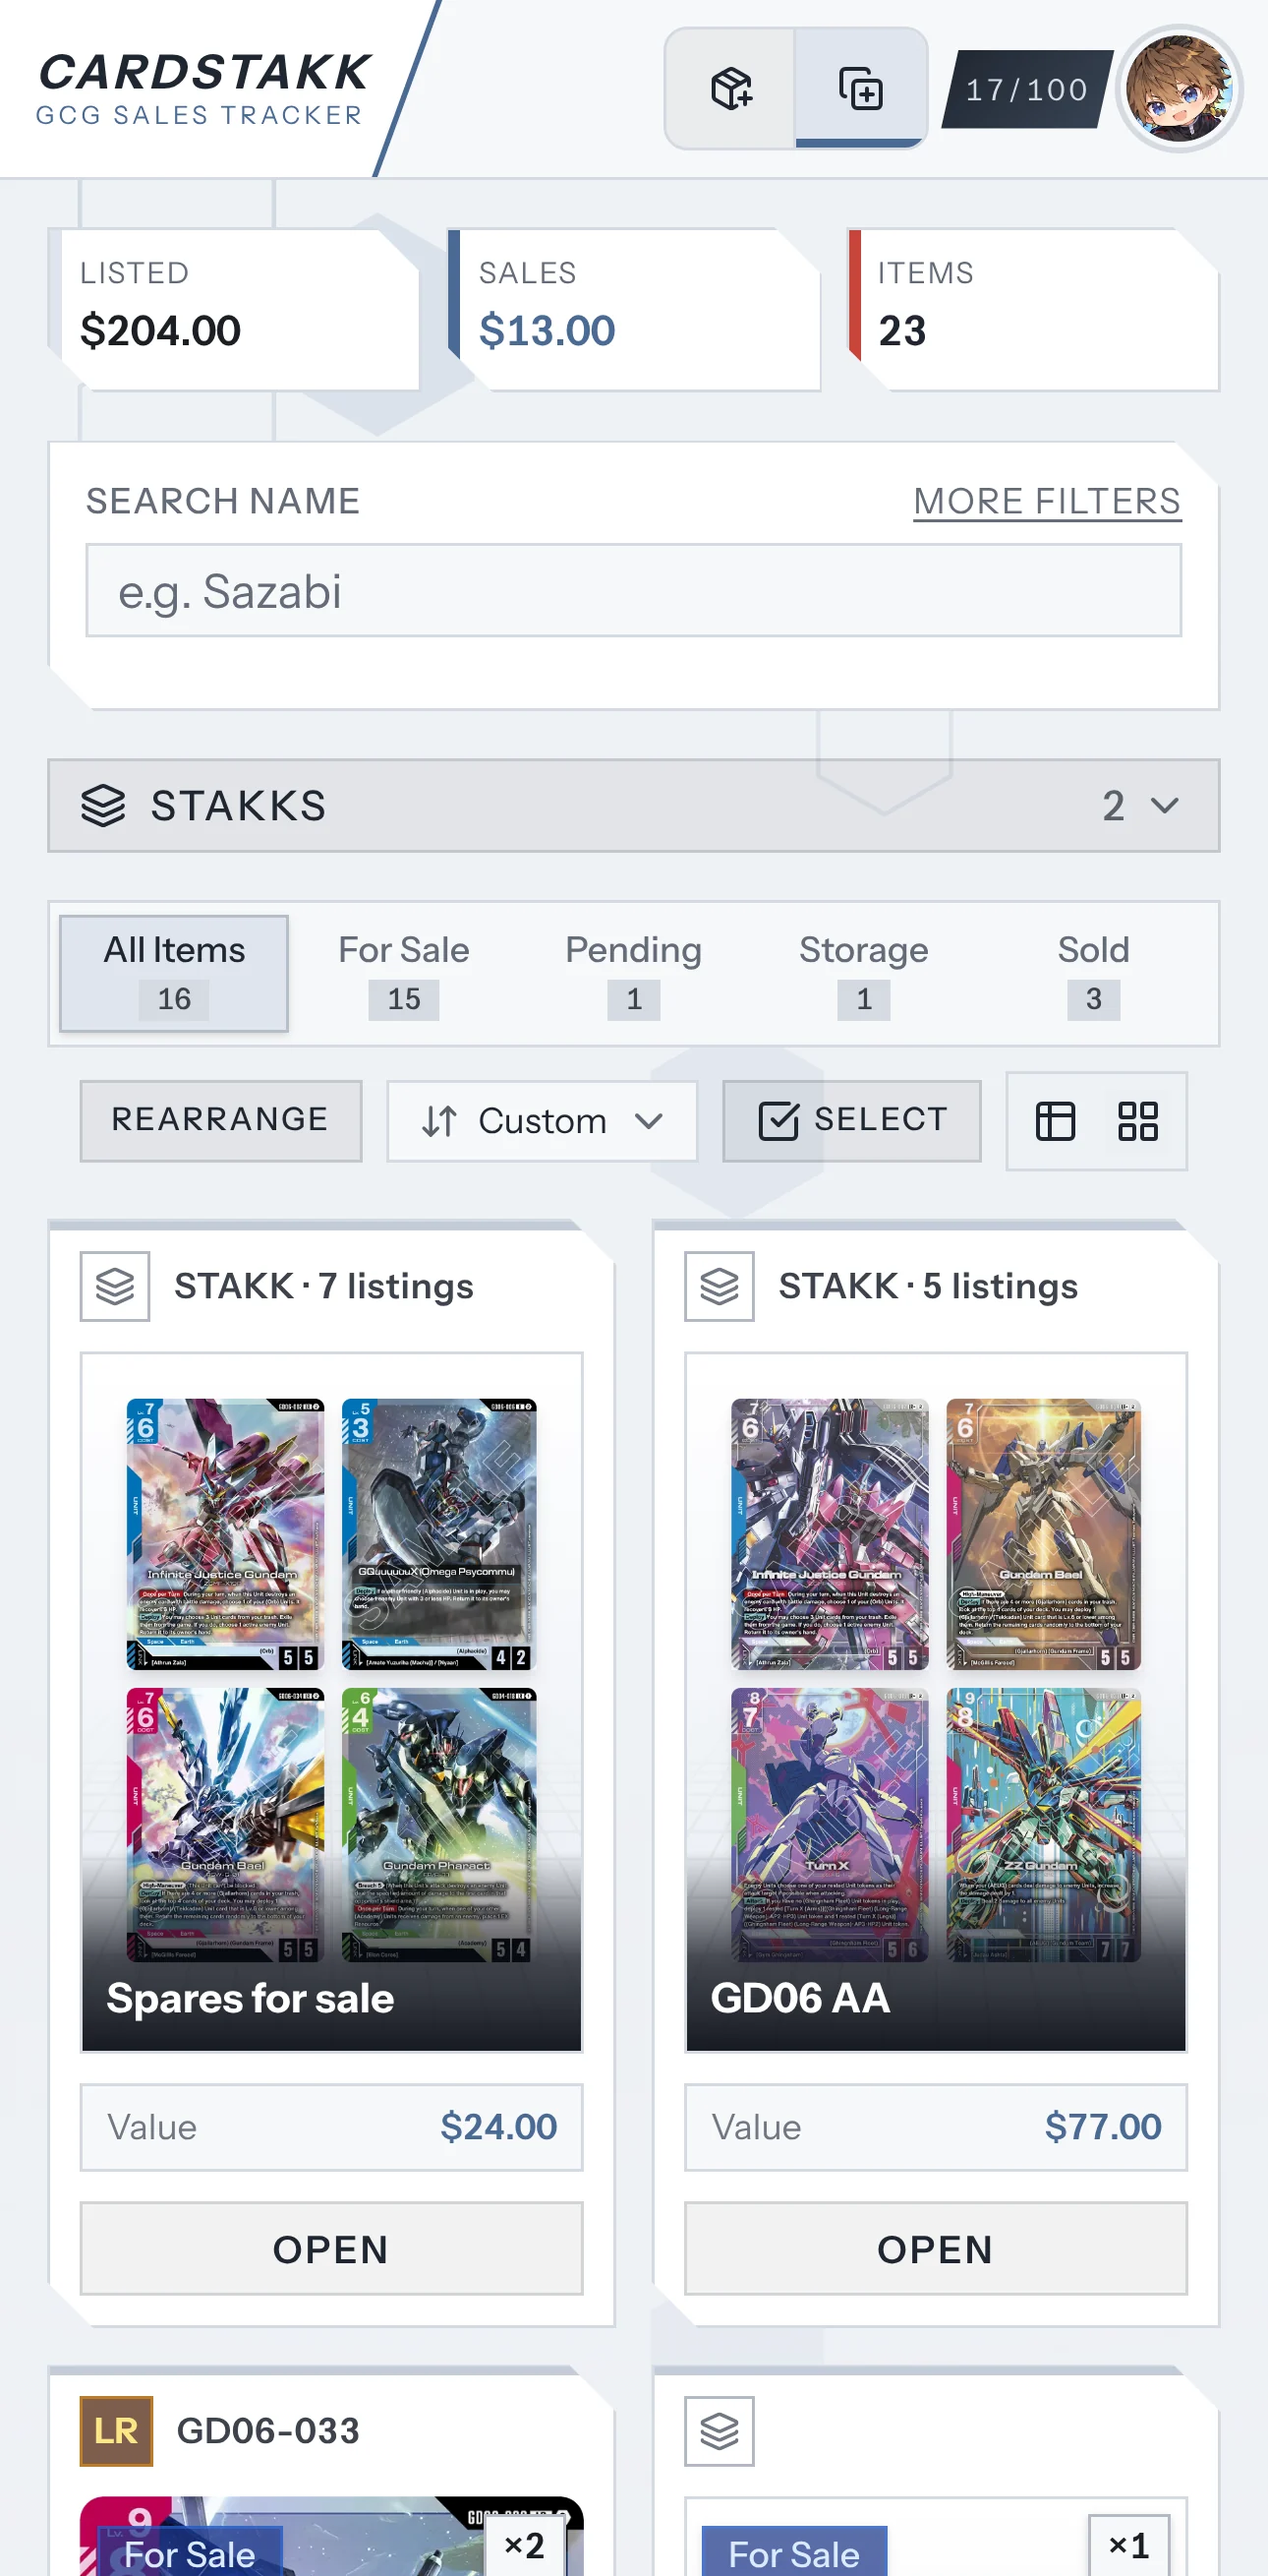
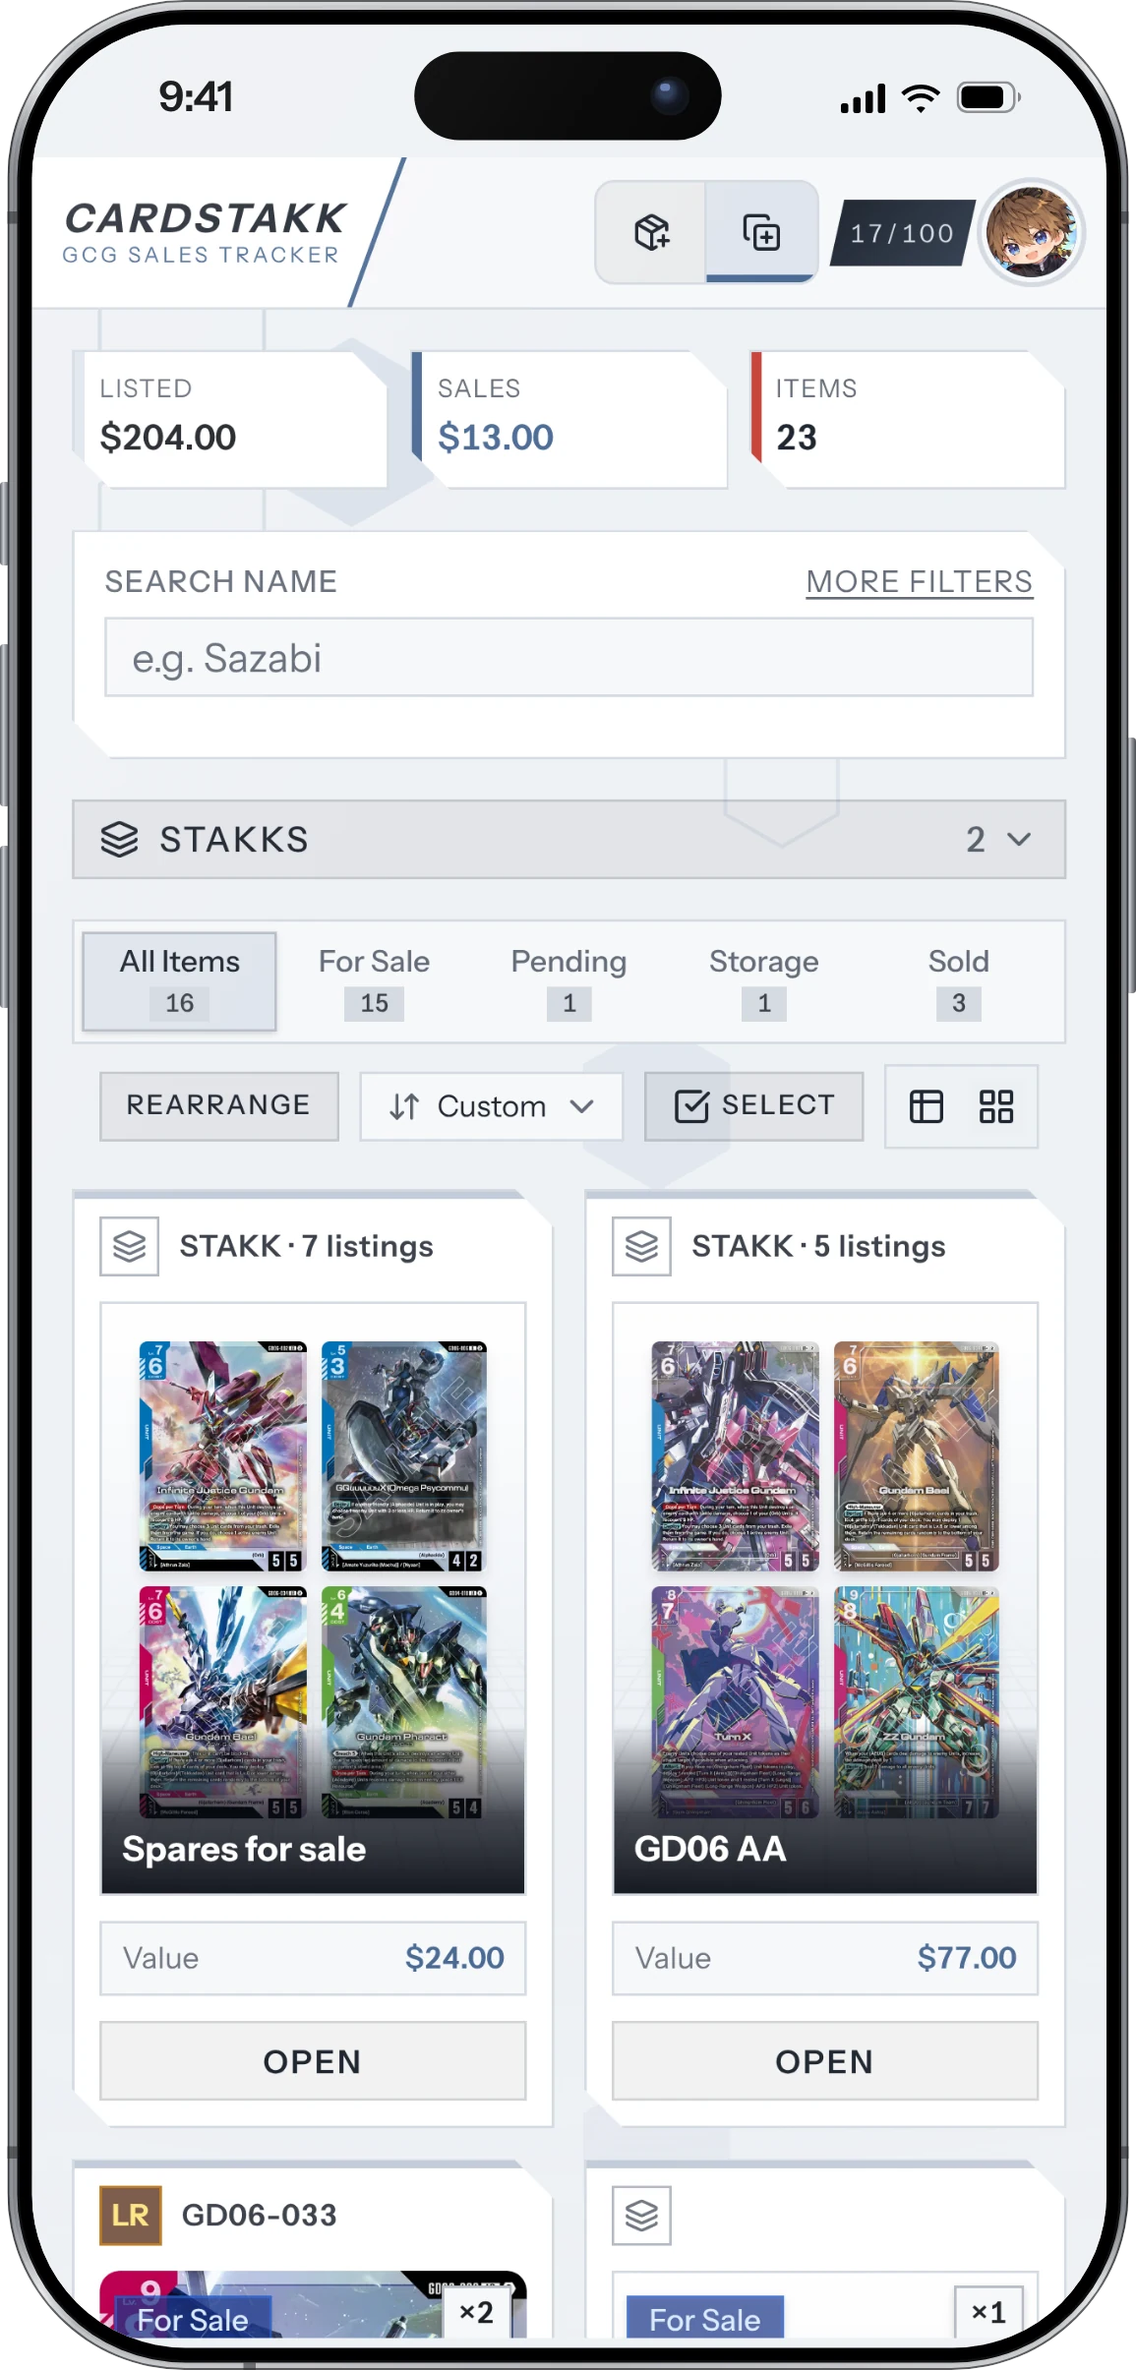
Landing page: realistic phone

diff --git a/frontend/src/pages/Landing.tsx b/frontend/src/pages/Landing.tsx
@@ -147,8 +147,8 @@ const FEATURES = [
     text: "The whole tracker works on your phone, so you can add a card, mark a deal or check a price right at the table.",
     points: ["Add CardStakk to your home screen like an app", "Everything stays in step with your computer"],
     img: phoneShot,
-    w: 430,
-    h: 873,
+    w: 462,
+    h: 964,
     alt: "CardStakk on a phone: the totals, search, the status tabs and two Stakks",
     caption: "The listings page on a phone.",
     phone: true,
@@ -230,8 +230,8 @@ function Shot({ img, w, h, alt, caption, wide, phone }: { img: string; w: number
         width={w}
         height={h}
         loading="lazy"
-        // phone: a narrow, round-cornered screen, so the tall picture stays a sensible size
-        className={`mx-auto block h-auto w-full shadow-[0_20px_50px_-28px_rgba(28,34,43,.5)] ${phone ? "max-w-[240px] rounded-[28px] border-4 border-[#1f2630]" : `rounded-[10px] border border-[#dbe1e8] ${wide ? "" : "max-w-[480px]"}`}`}
+        // phone: the screenshot in its phone frame (transparent around it), kept narrow so it stays a sensible size
+        className={`mx-auto block h-auto w-full ${phone ? "max-w-[250px] drop-shadow-[0_24px_30px_rgba(28,34,43,.35)]" : `rounded-[10px] border border-[#dbe1e8] shadow-[0_20px_50px_-28px_rgba(28,34,43,.5)] ${wide ? "" : "max-w-[480px]"}`}`}
       />
       <figcaption className="mt-2 text-center text-[12.5px] text-[#5a6371]">{caption}</figcaption>
     </figure>
@@ -639,10 +639,10 @@ export default function Landing({
             />
             <img
               src={phoneShot}
-              width={430}
-              height={873}
+              width={462}
+              height={964}
               alt="The same listings on a phone"
-              className="absolute -right-2 -bottom-10 z-10 block h-auto w-[26%] max-w-[170px] rounded-[18px] border-[3px] border-[#1f2630] shadow-[0_30px_60px_-24px_rgba(28,34,43,.6)] md:-right-5"
+              className="absolute -right-2 -bottom-10 z-10 block h-auto w-[27%] max-w-[180px] drop-shadow-[0_24px_30px_rgba(28,34,43,.4)] md:-right-5"
             />
             <div aria-hidden className={`${HERO_NOTE} -top-5 right-[22%] max-md:hidden`}>
               <span className="grid size-[30px] place-items-center rounded-lg bg-[#8a1c1a] text-white">
